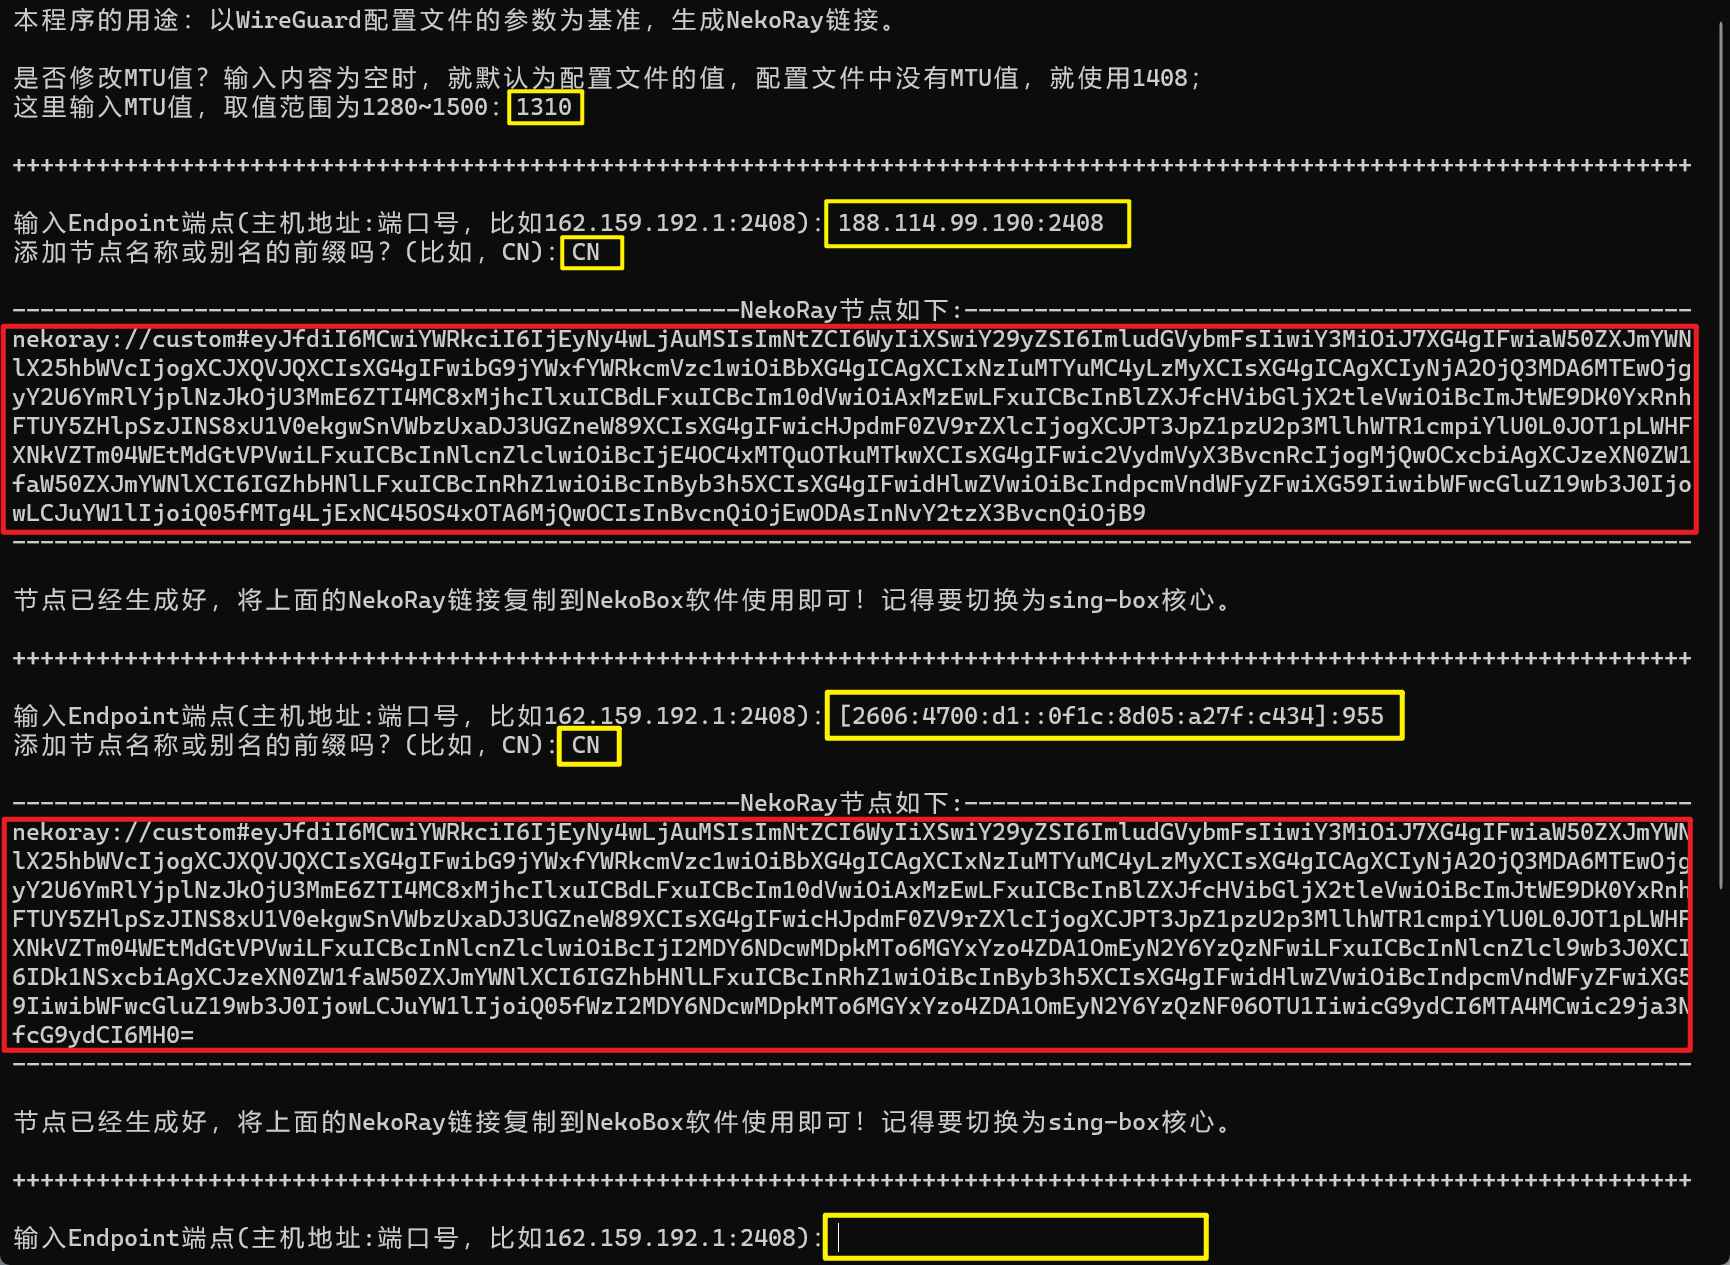
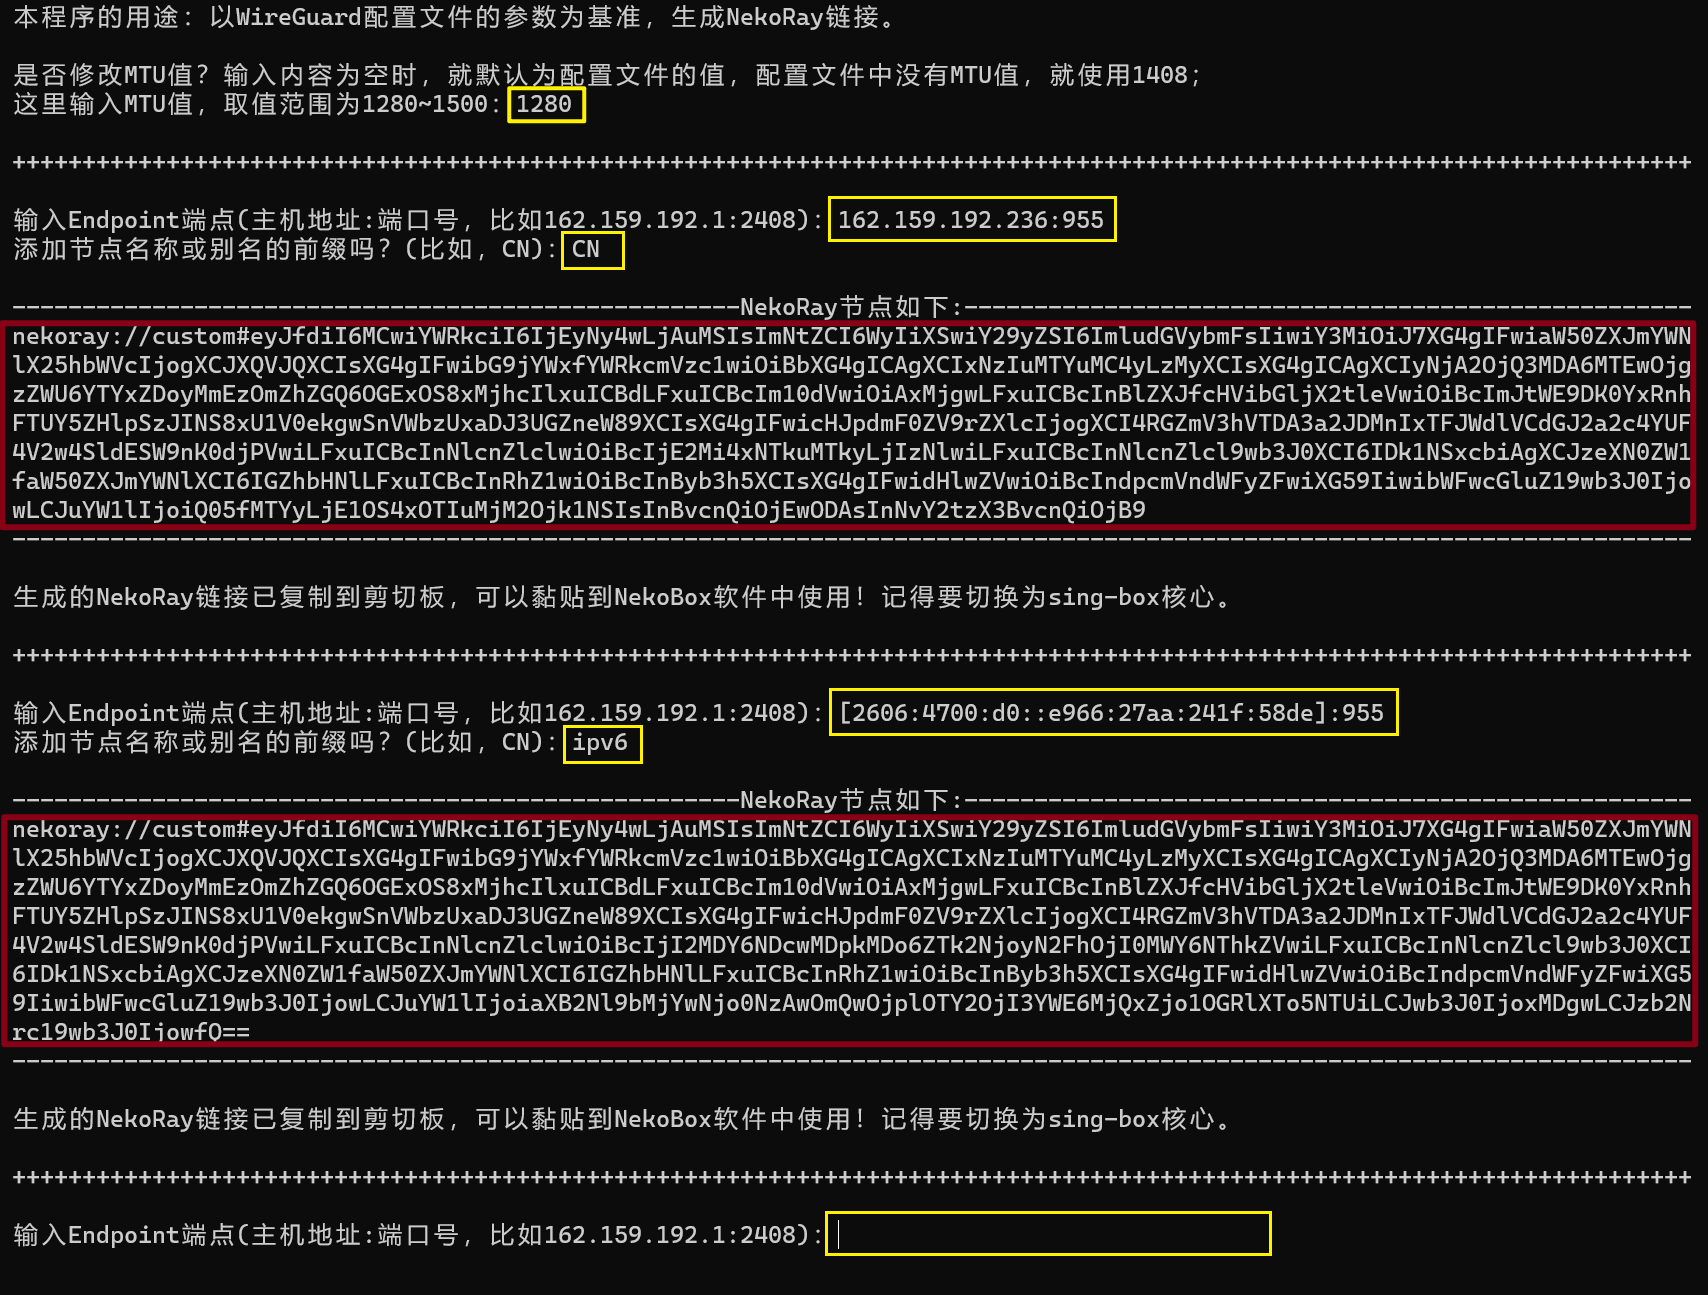
Update Clipboard

diff --git a/src/app1.rs b/src/app1.rs
@@ -1,11 +1,12 @@
-#[allow(deprecated)]
-extern crate base64;
+use base64;
 use lazy_static::lazy_static;
 use regex::Regex;
 use std::fs;
 use std::io::{self, Write};
 use std::net::Ipv4Addr;
 use std::net::Ipv6Addr;
+use clipboard::ClipboardContext;
+use clipboard::ClipboardProvider;
 
 // 使用 lazy_static 宏创建静态正则表达式对象，使用 lazy_static 宏可以在第一次使用正则表达式时初始化它们，以后就不需要再次编译。
 lazy_static! {
@@ -225,8 +226,11 @@ fn main() {
 
         println!("\n{:-<52}NekoRay节点如下:{:-<52}", "", "");
         println!("{}", nekoray_node);
+        // 复制到剪贴板
+        let mut clipboard: ClipboardContext = ClipboardProvider::new().unwrap();
+        clipboard.set_contents(nekoray_node.to_owned()).unwrap();
         println!("{:-<120}", "");
-        println!("\n节点已经生成好，将上面的NekoRay链接复制到NekoBox软件使用即可！记得要切换为sing-box核心。\n");
+        println!("\n生成的NekoRay链接已复制到剪切板，可以黏贴到NekoBox软件中使用！记得要切换为sing-box核心。\n");
         println!("{:+<120}", "");
     }
 }

diff --git a/README.md b/README.md
@@ -8,6 +8,8 @@ WireGuard 转换 nekoray 节点链接，只需要一个 wg-config.conf 配置文
 
 <img src="images\screenshot2.png" />
 
+<img src="images\screenshot3.png" />
+
 ### 2、使用到的工具
 
 NekoBox Windows版：https://github.com/MatsuriDayo/nekoray/releases
